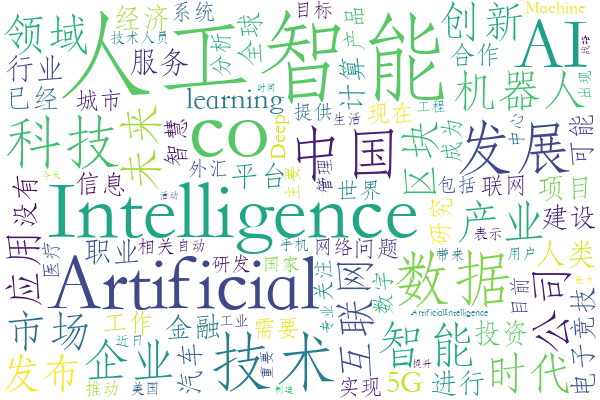
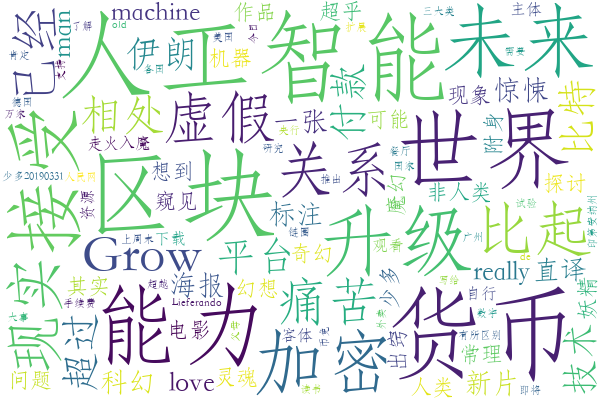
added wordcloud tabs in main html

diff --git a/techscan_project/techscan/templates/main.html b/techscan_project/techscan/templates/main.html
@@ -78,16 +78,69 @@
 				</div>
 				{% endif %}
 			</section>
-			<div class="container col-3 m-0">
-				<div style="text-align: left">
-					<img src="{% static 'word_cloud/tech_wordcloud.png' %}" class="graph-frame" style="width:430px; height:250px"></img>
-				</div>
+		<div class="container col-3 m-0">
+
+
+			<nav>
+			  <div class="nav nav-tabs" id="nav-tab" role="tablist">
+			    <a class="nav-item nav-link active" id="nav-home-tab" data-toggle="tab" href="#nav-home" role="tab" aria-controls="nav-home" aria-selected="true">Tech</a>
+			    <a class="nav-item nav-link" id="nav-profile-tab" data-toggle="tab" href="#nav-profile" role="tab" aria-controls="nav-profile" aria-selected="false">Companies</a>
+			    <a class="nav-item nav-link" id="nav-contact-tab" data-toggle="tab" href="#nav-contact" role="tab" aria-controls="nav-contact" aria-selected="false">People</a>
+			  </div>
+			</nav>
+
+			<div class="tab-content" id="nav-tabContent">
+			  <div class="tab-pane fade show active" id="nav-home" role="tabpanel" aria-labelledby="nav-home-tab">
+			  	<img src="{% static 'word_cloud/tech_wordcloud.png' %}" class="graph-frame" style="width:430px; height:250px"></img>
+			  </div>
+			  <div class="tab-pane fade" id="nav-profile" role="tabpanel" aria-labelledby="nav-profile-tab">
+			  	<img src="{% static 'word_cloud/company_wordcloud.png' %}" class="graph-frame" style="width:430px; height:250px"></img>
+			  </div>
+			  <div class="tab-pane fade" id="nav-contact" role="tabpanel" aria-labelledby="nav-contact-tab">...</div>
 			</div>
+
 		</div>
 	</div>
 
 
 	<div class="row">
+		<div class="container col m-1">
+			<span class="section-title"><h3>Top Authors</h3></span>
+			<table class="table table-hover mt-2 pt-2" id="author-box">
+				<thead>
+					<tr>
+						<th scope="col">#</th>
+						<th scope="col">Author</th>
+						<th scope="col">Source</th>
+						<th scope="col">Total Favorites</th>
+						<th scope="col">Total Retweet</th>
+						<th scope="col">Total Upvotes</th>					
+						<th scope="col">Post Count</th>
+						<th scope="col">Average favorites/upvotes/retweets per post</th>
+					</tr>
+				</thead>
+				<tbody>
+					{% for i in author_table %}
+					<tr>
+						<th scope="row">{{forloop.counter}}</th>
+						<td><a href="{{i.url}}"> {{i.author}} </a></td>
+						{% if i.source == "Twitter" %}
+						<td class="source_twitter"> {{i.source}}</td>	
+						{% elif i.source == "Weibo" %}	
+						<td class="source_weibo"> {{i.source}}</td>
+						{% elif i.source == "Zhihu" %}
+						<td class="source_zhihu"> {{i.source}}</td>
+						{% endif %}
+						<td> {{i.favorite_count}}</td>
+						<td> {{i.retweet_count}}</td>
+						<td> {{i.upvotes}}</td>
+						<td> {{i.size}}</td>
+						<td> {{i.average}}</td>		
+					</tr>
+					{% endfor %}
+				</tbody>
+			</table>
+		</div>
 		<div class="container col m-1">
 			<span class="section-title"><h3>Related Fields</h3></span>
 		<div class="row">
@@ -150,44 +203,6 @@
 			{% endif %}
 		</div>	
 		</div>
-
-		<div class="container col m-1">
-			<span class="section-title"><h3>Top Authors</h3></span>
-			<table class="table table-hover mt-2 pt-2" id="author-box">
-				<thead>
-					<tr>
-						<th scope="col">#</th>
-						<th scope="col">Author</th>
-						<th scope="col">Source</th>
-						<th scope="col">Total Favorites</th>
-						<th scope="col">Total Retweet</th>
-						<th scope="col">Total Upvotes</th>					
-						<th scope="col">Post Count</th>
-						<th scope="col">Average favorites/upvotes/retweets per post</th>
-					</tr>
-				</thead>
-				<tbody>
-					{% for i in author_table %}
-					<tr>
-						<th scope="row">{{forloop.counter}}</th>
-						<td><a href="{{i.url}}"> {{i.author}} </a></td>
-						{% if i.source == "Twitter" %}
-						<td class="source_twitter"> {{i.source}}</td>	
-						{% elif i.source == "Weibo" %}	
-						<td class="source_weibo"> {{i.source}}</td>
-						{% elif i.source == "Zhihu" %}
-						<td class="source_zhihu"> {{i.source}}</td>
-						{% endif %}
-						<td> {{i.favorite_count}}</td>
-						<td> {{i.retweet_count}}</td>
-						<td> {{i.upvotes}}</td>
-						<td> {{i.size}}</td>
-						<td> {{i.average}}</td>		
-					</tr>
-					{% endfor %}
-				</tbody>
-			</table>
-		</div>
 	</div>
 
 		<div class="row">
@@ -210,8 +225,6 @@
 		</div>
 
 
-
-
 			<!-- <div class="container p-3 ml-2 col-6">
 				<span class="section-title"><h3>Top Companies' Stocks</h3></span>
 				<h5>Stock prices of the most frequently mentioned companies in the news.</h5>
@@ -219,5 +232,6 @@
 					<iframe src="{% url 'stock_graph' %}" class="graph-frame" ></iframe> 
 				</div>
 			</div> -->
-		</div>
-	</body>
+
+	</div>
+</body>

diff --git a/techscan_project/techscan/es_folder/plotgraph.py b/techscan_project/techscan/es_folder/plotgraph.py
@@ -438,11 +438,11 @@ def wordcloud(keyword):
 	with open('techscan/static/word_cloud/stopword.txt', encoding = 'utf-8') as f:
 		stopword_chinese = f.read()
 	df_weibo['summary'] = df_weibo['summary'].apply(lambda x: ' '.join([word for word in jieba.cut(x,cut_all=False) if word not in stopword_chinese]))
-	
-	stopword_english = stopwords.words('english')
-	df_twitter['summary'] = df_twitter['summary'].apply(lambda x: re.sub('[\W]', ' ', x))
-	df_twitter['summary'] = df_twitter['summary'].apply(lambda x:' '.join(re.sub('http\S+\s*', '', x).split()))
-	df_twitter['summary'] = df_twitter['summary'].apply(lambda x: ' '.join([word for word in x.split(' ') if word not in stopword_english]))
+	if df_twitter is not None:
+		stopword_english = stopwords.words('english')
+		df_twitter['summary'] = df_twitter['summary'].apply(lambda x: re.sub('[\W]', ' ', x))
+		df_twitter['summary'] = df_twitter['summary'].apply(lambda x:' '.join(re.sub('http\S+\s*', '', x).split()))
+		df_twitter['summary'] = df_twitter['summary'].apply(lambda x: ' '.join([word for word in x.split(' ') if word not in stopword_english]))
 	
 	df_all = pd.concat([df_weibo, df_twitter], axis = 0, ignore_index = True)
 	df_all = df_all[df_all['summary']!='']
@@ -926,55 +926,55 @@ def plot_stocks(keyword):
 	plot(fig, filename = 'techscan/templates/graph/stock_graph.html', auto_open=False)
 
 def people_companies_wordcloud(keyword):
-	df_news,_ = graph_query(chi_translation(keyword), 'news')
-	df_twitter,_ = graph_query(keyword, 'tweets')
-	with open('techscan/static/word_cloud/stopword.txt', encoding = 'utf-8') as f:
-		stopword_chinese = f.read()
-	df_news['summary'] = df_news['summary'].apply(lambda x: ' '.join([word for word in jieba.cut(x,cut_all=False) if word not in stopword_chinese]))
-	stopword_english = stopwords.words('english')
-	extra = ['rt', 'ai']
-	stopword_english = stopword_english.extend(extra)
-	df_twitter['summary'] = df_twitter['summary'].apply(lambda x: x.lower())
-	df_twitter['summary'] = df_twitter['summary'].apply(lambda x: re.sub('[\W]', ' ', x))
-	df_twitter['summary'] = df_twitter['summary'].apply(lambda x:' '.join(re.sub('http\S+\s*', '', x).split()))
-	# df_twitter['mentions'] = df_twitter['mentions'].apply(lambda x: re.sub("['\[\]']", '', x))
+    df_news,_ = graph_query(chi_translation(keyword), 'news')
+    df_twitter,_ = graph_query(keyword, 'tweets')
+    with open('techscan/static/word_cloud/stopword.txt', encoding = 'utf-8') as f:
+        stopword_chinese = f.read()
+    df_news['summary'] = df_news['summary'].apply(lambda x: ' '.join([word for word in jieba.cut(x,cut_all=False) if word not in stopword_chinese]))
+    stopword_english = stopwords.words('english')
+    extra = ['rt', 'ai']
+    stopword_english = stopword_english.extend(extra)
+    df_twitter['summary'] = df_twitter['summary'].apply(lambda x: x.lower())
+    df_twitter['summary'] = df_twitter['summary'].apply(lambda x: re.sub('[\W]', ' ', x))
+    df_twitter['summary'] = df_twitter['summary'].apply(lambda x:' '.join(re.sub('http\S+\s*', '', x).split()))
+    # df_twitter['mentions'] = df_twitter['mentions'].apply(lambda x: re.sub("['\[\]']", '', x))
 
-	tweets_summary_list = df_twitter.summary.tolist()
-	tweets_summary_string = " ".join(tweets_summary_list)
-	tweets_tokenised = nlp(tweets_summary_string)
-	tweets_companies = []
-	tweets_people = df_twitter.mentions.tolist() + df_twitter.user_screen_name.tolist()
-	for ents in tweets_tokenised.ents:
-		if ents.label_ == 'ORG':
-			tweets_companies.append(ents.text)
+    tweets_summary_list = df_twitter.summary.tolist()
+    tweets_summary_string = " ".join(tweets_summary_list)
+    tweets_tokenised = nlp(tweets_summary_string)
+    tweets_companies = []
+    tweets_people = df_twitter.mentions.tolist() + df_twitter.user_screen_name.tolist()
+    for ents in tweets_tokenised.ents:
+        if ents.label_ == 'ORG':
+            tweets_companies.append(ents.text)
 
-	news_summary_list = df_news.summary.tolist()
-	news_summary_string = "".join(news_summary_list)
-	news_tokenised = psg.cut(news_summary_string)
-	news_org_list = []
-	news_people = []
-	for token in news_tokenised:
-		if token.flag == "nt":
-			news_org_list.append(token.word)
-		if token.flag == "nr":
-			news_people.append(token.word)
+    news_summary_list = df_news.summary.tolist()
+    news_summary_string = "".join(news_summary_list)
+    news_tokenised = psg.cut(news_summary_string)
+    news_org_list = []
+    news_people = []
+    for token in news_tokenised:
+        if token.flag == "nt":
+            news_org_list.append(token.word)
+        if token.flag == "nr":
+            news_people.append(token.word)
 
-	news_companies = []
-	for org in news_org_list:
-		if '公司' in org or '集团'in org:
-			news_companies.append(org)
+    news_companies = []
+    for org in news_org_list:
+        if '公司' in org or '集团'in org:
+            news_companies.append(org)
 
-	total_company = tweets_companies + news_companies
-	total_company = ' '.join(total_company)
+    total_company = tweets_companies + news_companies
+    total_company = ' '.join(total_company)
 
-	total_people = tweets_people + news_people
-	total_people = ' '.join(total_people)
+    total_people = tweets_people + news_people
+    total_people = ' '.join(total_people)
 
-	font_path = 'techscan/static/word_cloud/STFangSong.ttf'
-	wordcloud = WordCloud( background_color = "white", collocations = False, max_words = 100, font_path=font_path,
-		max_font_size = 100, random_state = 42, width = 600, height = 400, margin = 2, colormap="winter").generate(total_company)
-	wordcloud.to_file("techscan/static/word_cloud/company_wordcloud.png")
+    font_path = 'techscan/static/word_cloud/STFangSong.ttf'
+    wordcloud = WordCloud( background_color = "white", collocations = False, max_words = 100, font_path=font_path,
+        max_font_size = 100, random_state = 42, width = 600, height = 400, margin = 2, colormap="winter").generate(total_company)
+    wordcloud.to_file("techscan/static/word_cloud/company_wordcloud.png")
 
-	wordcloud = WordCloud( background_color = "white", collocations = False, max_words = 100, font_path=font_path,
-		max_font_size = 100, random_state = 42, width = 600, height = 400, margin = 2, colormap="winter").generate(total_people)
-	wordcloud.to_file("techscan/static/word_cloud/people_wordcloud.png")
+    wordcloud = WordCloud( background_color = "white", collocations = False, max_words = 100, font_path=font_path,
+        max_font_size = 100, random_state = 42, width = 600, height = 400, margin = 2, colormap="cool").generate(total_people)
+    wordcloud.to_file("techscan/static/word_cloud/people_wordcloud.png")
